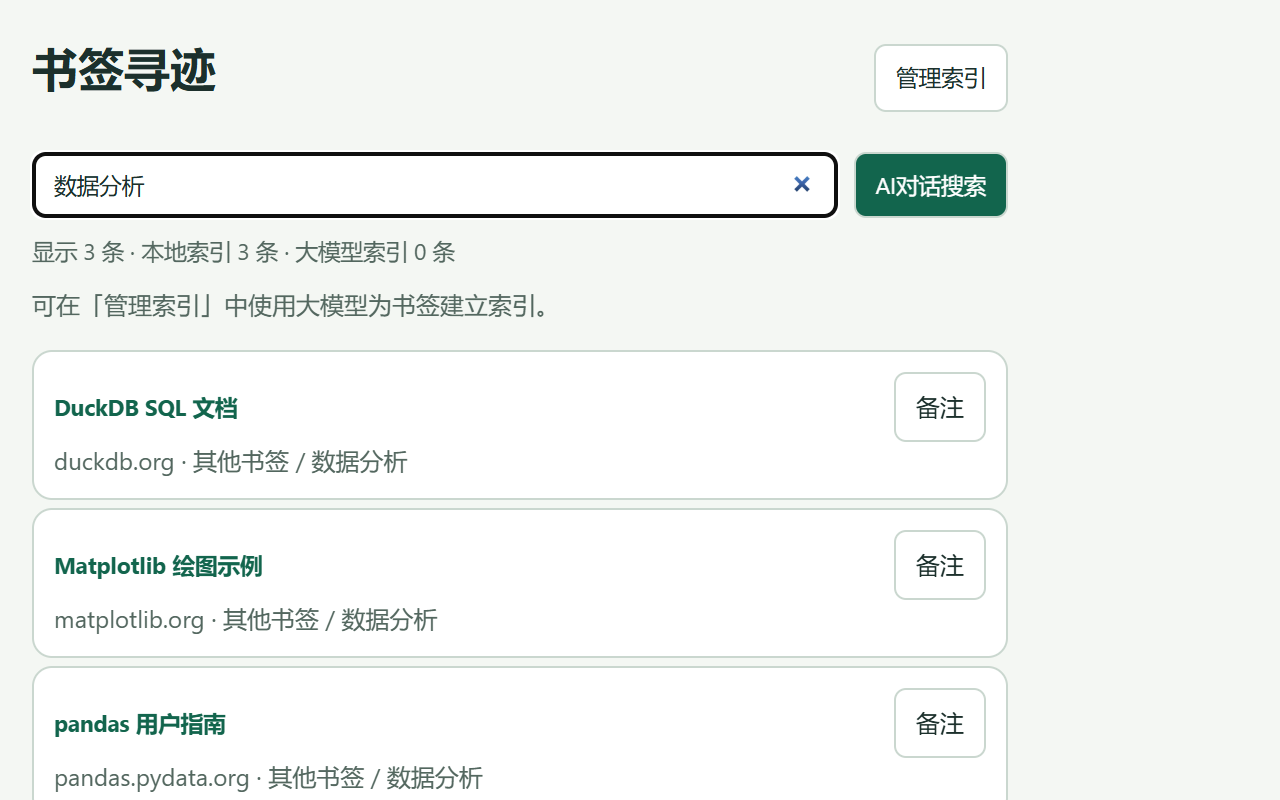
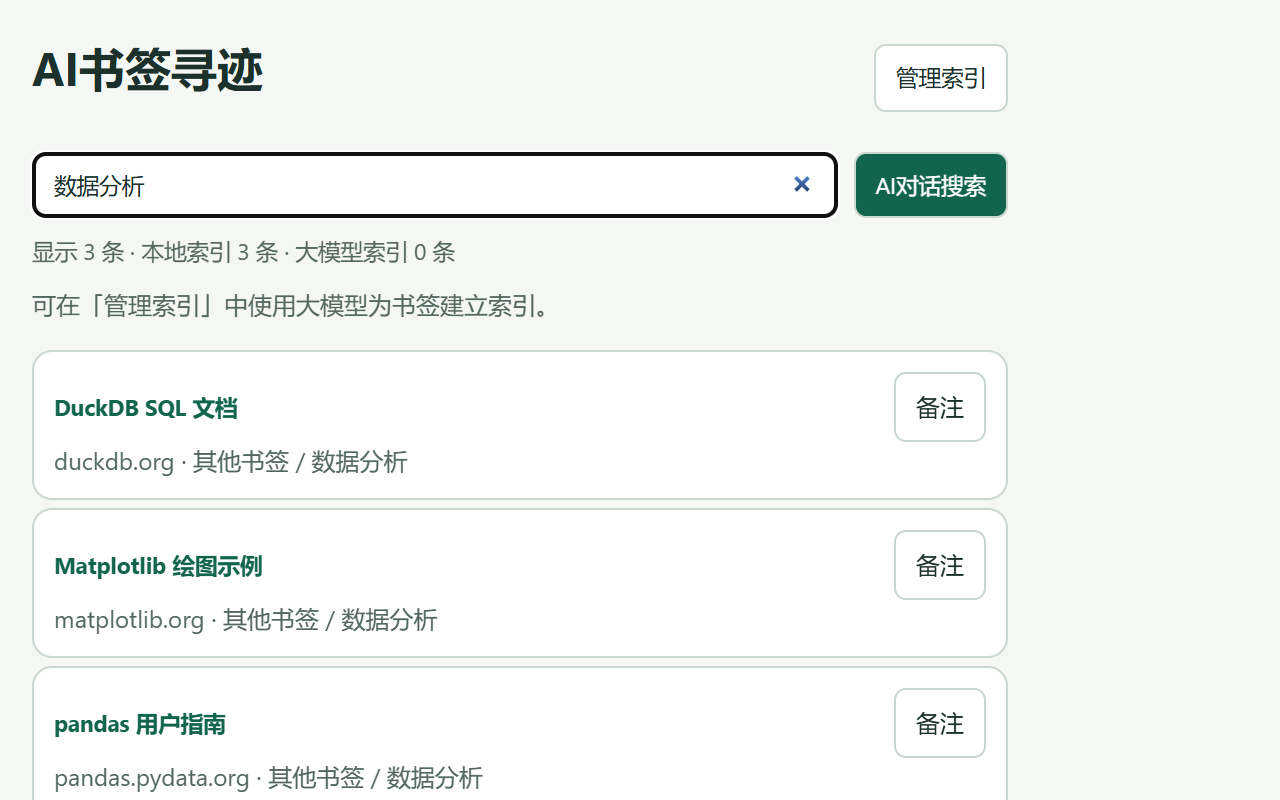
统一使用 AI书签寻迹 品牌名称并更新商店截图

Changed region(s): [[0.0312, 0.0625, 0.2188, 0.125]]

diff --git a/public/settings.html b/public/settings.html
@@ -1,4 +1,4 @@
-<!doctype html><html lang="zh-CN"><head><meta charset="utf-8"><title>书签寻迹 · 索引管理</title><link rel="stylesheet" href="style.css"></head>
+<!doctype html><html lang="zh-CN"><head><meta charset="utf-8"><title>AI书签寻迹 · 索引管理</title><link rel="stylesheet" href="style.css"></head>
 <body class="manager"><header><h1><img src="icons/48.png" width="28" height="28" alt=""> 书签索引</h1><button id="sync">同步书签</button></header><p class="small">同步会重新读取此 Chrome 配置的书签，将新增、改名、移动和删除反映到本地搜索，无需调用模型。</p><p id="syncResult" role="status"></p><p id="notice" role="status"></p>
 <p id="lastChange" class="small"></p><p>输入即可在本地搜索书签。配置模型后，新收藏的书签以及更改标题、网址的书签会自动生成用途索引。删除书签时自动清理关联。历史书签按下方勾选范围手动建库；明确排除的目录也会跳过自动建库。</p>
 <section><h2>LLM 建库进度</h2><p id="stats"></p><p id="recent"></p><p id="current" aria-live="polite"></p><p id="size"></p><div class="actions"><button class="primary" id="start">开始建库</button><button id="clearAll">清理全部 LLM 索引</button></div></section>

diff --git a/public/search.html b/public/search.html
@@ -1,5 +1,5 @@
-<!doctype html><html lang="zh-CN"><head><meta charset="utf-8"><title>书签寻迹</title><link rel="stylesheet" href="style.css"></head>
-<body class="popup"><header><h1>书签寻迹</h1><button id="settings">管理索引</button></header>
+<!doctype html><html lang="zh-CN"><head><meta charset="utf-8"><title>AI书签寻迹</title><link rel="stylesheet" href="style.css"></head>
+<body class="popup"><header><h1>AI书签寻迹</h1><button id="settings">管理索引</button></header>
 <form id="search"><input id="query" type="search" autofocus autocomplete="off" aria-label="按标题、网址或文件夹本地搜索书签" placeholder="输入标题、网址或文件夹，即可本地搜索"><button class="primary" title="使用大模型对话搜索">AI对话搜索</button></form>
 <p id="status" role="status"></p><p class="small">可在「管理索引」中使用大模型为书签建立索引。</p><div id="results"></div><footer>↑ ↓ 选择 · Enter 打开所选 · Ctrl+Enter AI对话搜索</footer>
 <script type="module" src="ui.js"></script></body></html>

diff --git a/store/listing.md b/store/listing.md
@@ -4,7 +4,7 @@
 
 ## 详细介绍
 
-你还记得收藏的网页是做什么的，却想不起标题？书签寻迹帮你从 Chrome 书签里找回那个页面。输入标题片段、网址或文件夹名称，就能在本地看到匹配结果，无需配置模型。
+你还记得收藏的网页是做什么的，却想不起标题？AI书签寻迹帮你从 Chrome 书签里找回那个页面。输入标题片段、网址或文件夹名称，就能在本地看到匹配结果，无需配置模型。
 
 想按用途查找时，可以连接自己的 AI 模型，为选定文件夹生成页面摘要和检索词。试着输入「之前收藏的 PDF 表格提取工具」，用 AI 对话搜索找回相关书签。
 

diff --git a/PRIVACY.md b/PRIVACY.md
@@ -1,6 +1,6 @@
-# 书签寻迹隐私政策
+# AI书签寻迹隐私政策
 
-更新于 2026 年 11 月 22 日，适用于 Chrome 扩展「书签寻迹」。扩展使用数据的目的是帮助你搜索、整理和找回自己收藏的页面。
+更新于 2026 年 11 月 22 日，适用于 Chrome 扩展「AI书签寻迹」。扩展使用数据的目的是帮助你搜索、整理和找回自己收藏的页面。
 
 ## 本地数据
 

diff --git a/README.md b/README.md
@@ -1,4 +1,4 @@
-# 书签寻迹
+# AI书签寻迹
 
 Chrome Manifest V3 扩展。安装后即可按标题、网址或文件夹搜索当前配置的书签；配置兼容 Chat Completions 的网关后，可以后台生成用途说明和中英文检索词，再用自然语言查找。
 
